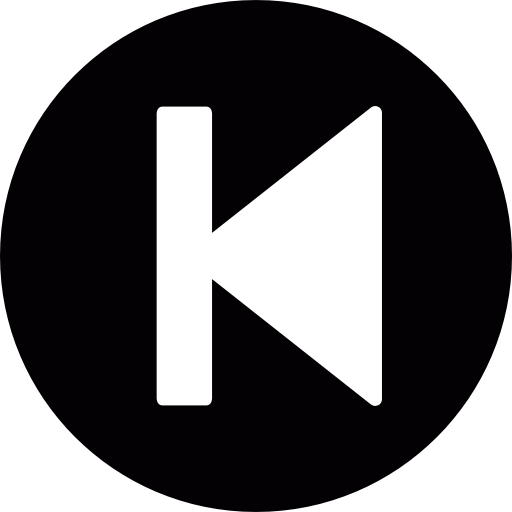
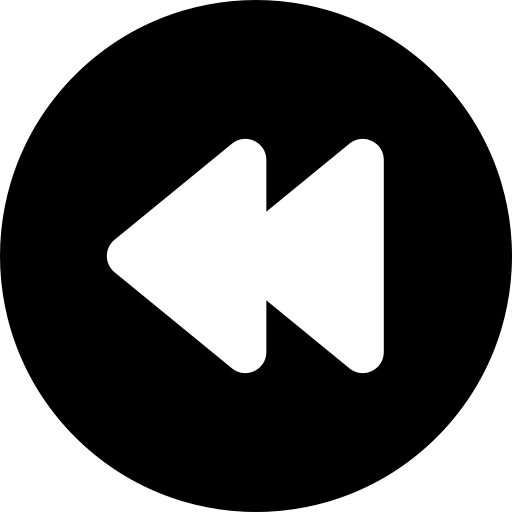
1.5
automaticky skipuje v playlistu, jiný design tlačítek, playlist se dá smazat

Changed region(s): [[0.1875, 0.1875, 0.75, 0.8125]]

diff --git a/main.py b/main.py
@@ -24,6 +24,7 @@ class App(tk.Tk):
         self.title(App.NAME)
         self.geometry(str(App.WIDTH) + "x" + str(App.HEIGHT))
         self.minsize(App.WIDTH, App.HEIGHT)
+        self.iconphoto(False, tk.PhotoImage(file='music_player.png'))
 
         # image init
         play_image = ImageTk.PhotoImage(Image.open(self.PATH + "/play.png").resize((40, 40)))
@@ -41,34 +42,40 @@ class App(tk.Tk):
 
         # button init
         self.button_1 = customtkinter.CTkButton(master=self.frame_left, image=play_image, text="", command=self.play,
-                                                width=60, height=60, border_width=0, corner_radius=8)
-        self.button_1.place(relx=0.5, y=50, anchor=tk.CENTER)
+                                                width=60, height=60, border_width=0, corner_radius=20)
+        self.button_1.place(relx=0.5, y=80, anchor=tk.CENTER)
 
         self.button_2 = customtkinter.CTkButton(master=self.frame_left, image=pause_image, text="", command=self.pause,
-                                                width=60, height=60, border_width=0, corner_radius=8)
-        self.button_2.place(relx=0.5, y=120, anchor=tk.CENTER)
+                                                width=60, height=60, border_width=0, corner_radius=20)
+        self.button_2.place(relx=0.5, y=150, anchor=tk.CENTER)
 
         self.button_3 = customtkinter.CTkButton(master=self.frame_left, image=stop_image, text="", command=self.stop,
-                                                width=60, height=60, border_width=0, corner_radius=8)
-        self.button_3.place(relx=0.5, y=190, anchor=tk.CENTER)
+                                                width=60, height=60, border_width=0, corner_radius=20)
+        self.button_3.place(relx=0.5, y=220, anchor=tk.CENTER)
 
         self.button_4 = customtkinter.CTkButton(master=self.frame_left, image=previous_image, text="",
                                                 command=self.previous, width=60, height=60, border_width=0,
-                                                corner_radius=8)
-        self.button_4.place(relx=0.5, y=260, anchor=tk.CENTER)
+                                                corner_radius=20)
+        self.button_4.place(relx=0.5, y=290, anchor=tk.CENTER)
 
         self.button_5 = customtkinter.CTkButton(master=self.frame_left, image=next_image, text="",
-                                                command=self.next, width=60, height=60, border_width=0, corner_radius=8)
-        self.button_5.place(relx=0.5, y=330, anchor=tk.CENTER)
+                                                command=self.next, width=60, height=60, border_width=0,
+                                                corner_radius=20)
+        self.button_5.place(relx=0.5, y=360, anchor=tk.CENTER)
 
         # playlist init
-        self.playlist = Listbox(self.frame_right, bg="black", fg="white", width=50)
+        self.playlist = Listbox(self.frame_right, bg="white", fg="black", width=45)
         self.playlist.place(relx=0.5, y=120, anchor=tk.CENTER)
 
         # status bar init
-        self.status_bar = Label(self.frame_right, text="", bd=1, relief=GROOVE)
+        self.status_bar = Label(self.frame_right, text="", bd=1, relief=RAISED, padx=5, pady=3)
         self.status_bar.place(relx=0.5, y=215, anchor=tk.CENTER)
         self.status_bar.place_forget()
+
+        # slider init
+        self.slider = customtkinter.CTkSlider(master=self.frame_right, from_=0, to=100, width=250)
+        self.slider.place(relx=0.5, y=250, anchor=tk.CENTER)
+        self.slider.place_forget()
 
         # menu init
         self.player_menu = Menu(self)
@@ -77,12 +84,14 @@ class App(tk.Tk):
         self.add_song_menu = Menu(self.player_menu)
         self.player_menu.add_cascade(label="File", menu=self.add_song_menu)
         self.add_song_menu.add_command(label="Add", command=self.add_songs)
+        self.add_song_menu.add_command(label="Clear", command=self.clear)
         self.add_song_menu.add_separator()
         self.add_song_menu.add_command(label="Exit", command=quit)
 
-        self.music_file = None
-        self.songs_list = []
+        self.file = None
+        self.song = None
         self.playing = False
+        self.songs_list = []
 
     def add_songs(self):
         songs = filedialog.askopenfilenames(title="Choose A Song", filetypes=(("mp3 Files", "*.mp3"), ))
@@ -94,17 +103,17 @@ class App(tk.Tk):
 
     def play(self):
         self.song = self.playlist.get(ACTIVE)
-        song_directory = list(filter(lambda active: active[1] == self.song, self.songs_list))
-        self.music_file = str(song_directory[0][0]) + "/" + str(self.song)
-        mixer.music.load(self.music_file)
+        song_directory = list(filter(lambda active: active[1] == self.song, self.songs_list))  # looks for directory
+        self.file = str(song_directory[0][0]) + "/" + str(self.song)  # sticks it back together
+        mixer.music.load(self.file)
         mixer.music.play()
         self.play_time()
 
     def play_alt(self, song_number):
         self.song = self.playlist.get(song_number)
         song_directory = list(filter(lambda active: active[1] == self.song, self.songs_list))
-        self.music_file = str(song_directory[0][0]) + "/" + str(self.song)
-        mixer.music.load(self.music_file)
+        self.file = str(song_directory[0][0]) + "/" + str(self.song)
+        mixer.music.load(self.file)
         mixer.music.play()
         self.play_time()
         # highlight the next song in playlist
@@ -123,13 +132,23 @@ class App(tk.Tk):
     def play_time(self):
         global time_update
         current_time = mixer.music.get_pos() / 1000
-        song_duration = time.strftime("%H:%M:%S", time.gmtime(int(MP3(self.music_file).info.length)))
-        converted_time = time.strftime("%H:%M:%S", time.gmtime(current_time))
+        time_converted = time.strftime("%H:%M:%S", time.gmtime(current_time))
+        song_duration = time.strftime("%H:%M:%S", time.gmtime(int(MP3(self.file).info.length)))
+
         if self.song:
-            final_time = f'{self.song}\n{converted_time}/{song_duration}'
+            final_time = f'{self.song}\n{time_converted}/{song_duration}'
+
+            if int(current_time) + 1 == int(MP3(self.file).info.length):  # if the song ends, go to the next one
+                time.sleep(1)
+                self.next()
+
         else:
             mixer.music.stop()
             final_time = f'End of playlist.'
+            self.playlist.selection_clear(0, END)
+            self.playlist.activate(0)
+            self.playlist.selection_set(0, last=None)
+
         self.status_bar.config(text=final_time)
         self.status_bar.place(relx=0.5, y=215, anchor=tk.CENTER)
         time_update = self.status_bar.after(1000, self.play_time)
@@ -137,7 +156,7 @@ class App(tk.Tk):
     def next(self):
         # get an index of the next song
         next_song = self.playlist.curselection()
-        next_song = next_song[0]+1
+        next_song = next_song[0] + 1
         self.play_alt(next_song)
 
     def previous(self):
@@ -149,7 +168,10 @@ class App(tk.Tk):
     def stop(self):
         mixer.music.stop()
         self.status_bar.after_cancel(time_update)
-        self.status_bar.config(text=f'{self.song}\n00:00:00/00:00:00')
+        self.status_bar.config(text=f'00:00:00/00:00:00')
+
+    def clear(self):
+        self.playlist.delete(0, END)
 
     def startapp(self):
         self.mainloop()
